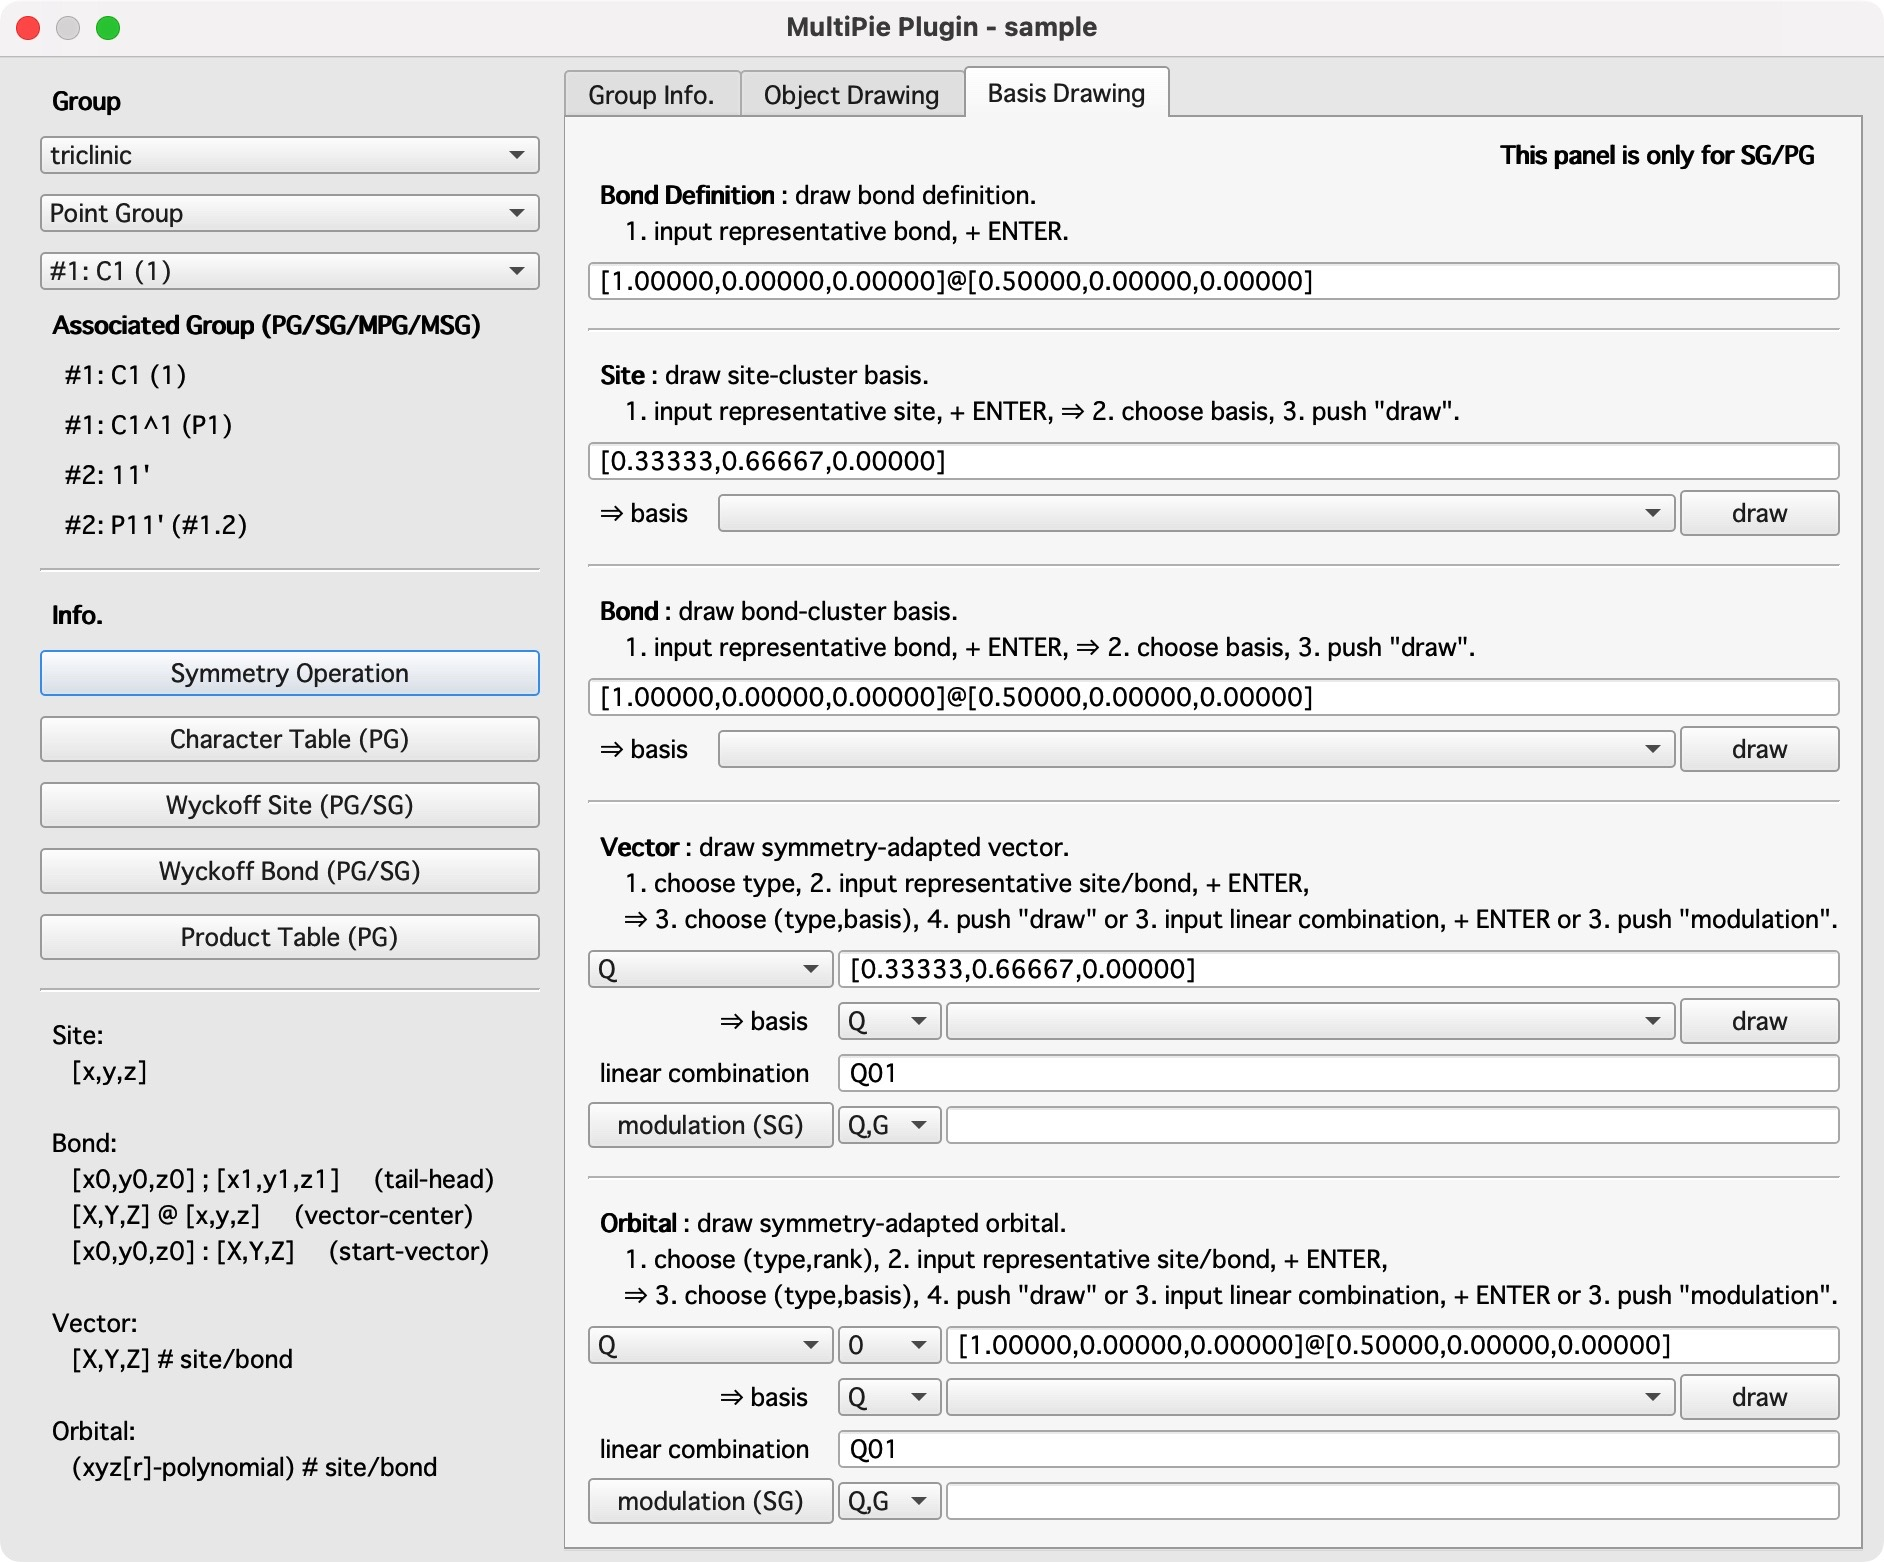
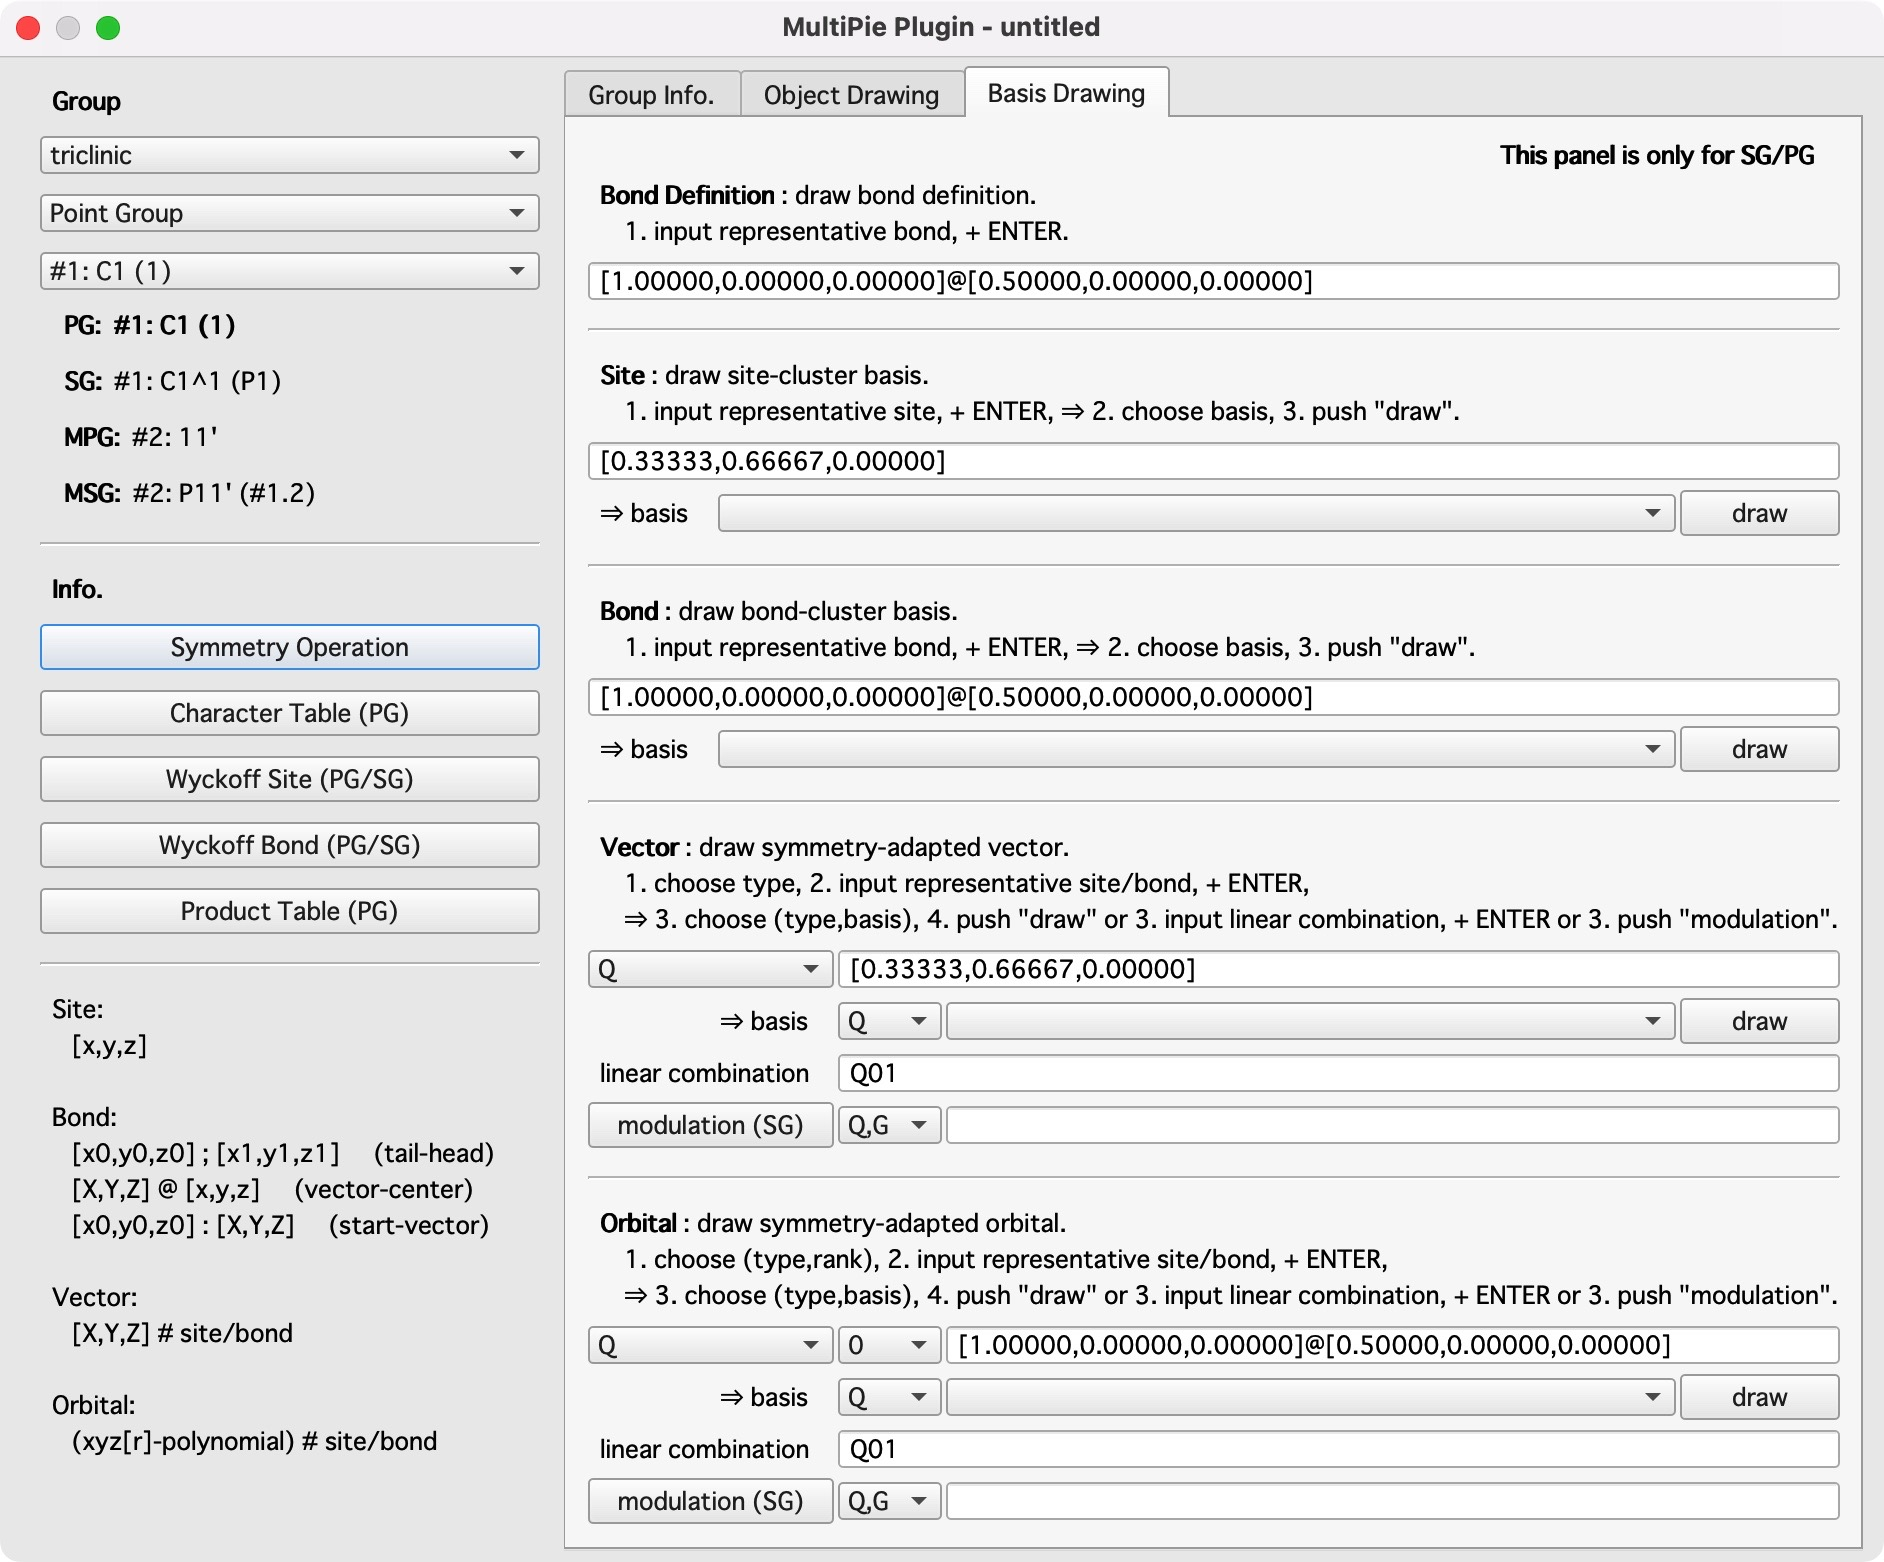
minor change

Changed region(s): [[0.0308, 0.1844, 0.2771, 0.9526], [0.4002, 0.0, 0.5849, 0.0307]]

diff --git a/docs/_static/custom.css b/docs/_static/custom.css
@@ -1,8 +1,41 @@
-.py.class,
-.py.function {
-    border-top: 3px solid #ff6600;
-    padding-top: 15px;
-    margin-top: 20px;
-    background-color: #fffef2;
-    padding: 10px;
+dl.py.class,
+dl.py.function,
+dl.py.method,
+dl.py.property,
+dl.py.attribute,
+dl.py.signal {
+    background-color: #eef5ff;
+    padding: 1rem;
+    margin-top: 2rem;
+
+    border-top: 2px solid #0066ff;
+}
+
+dl.py.class  > dt.sig,
+dl.py.function  > dt.sig,
+dl.py.function > dt.sig,
+dl.py.property > dt.sig,
+dl.py.attribute > dt.sig,
+dl.py.signal > dt.sig {
+    background-color: #dce9ff;
+    padding: 0.5rem 0.75rem;
+    margin: -1rem -1rem 1rem -1rem;
+    font-weight: 600;
+}
+
+dl.py.class dl.field-list > dt,
+dl.py.function dl.field-list > dt,
+dl.py.fuction dl.field-list > dt,
+dl.py.property dl.field-list > dt,
+dl.py.attribute dl.field-list > dt,
+dl.py.signal dl.field-list > dt {
+    font-weight: 600;
+    margin-top: 0.5rem;
+    background-color: #dce9ff;
+}
+
+.admonition,
+.admonition > .admonition-body {
+    border: none !important;
+    background-color: #f5f5f5 !important;
 }

diff --git a/qtdraw/multipie/sub_group.py b/qtdraw/multipie/sub_group.py
@@ -35,7 +35,6 @@ class SubGroup(QWidget):
         self.combo_group_type = Combo(parent, self._type_list.keys())
         self.combo_crystal_type = Combo(parent, parent._crystal_list.keys())
         self.combo_group = Combo(parent, [])
-        label_assoc_group = Label(parent, text="Associated Group (PG/SG/MPG/MSG)", bold=True)
         self.label_pg_name = Label(parent, text="")
         self.label_sg_name = Label(parent, text="")
         self.label_mpg_name = Label(parent, text="")
@@ -58,7 +57,6 @@ class SubGroup(QWidget):
         layout.addWidget(self.combo_crystal_type)
         layout.addWidget(self.combo_group_type)
         layout.addWidget(self.combo_group)
-        layout.addWidget(label_assoc_group)
         layout.addWidget(self.label_pg_name)
         layout.addWidget(self.label_sg_name)
         layout.addWidget(self.label_mpg_name)
@@ -128,11 +126,19 @@ class SubGroup(QWidget):
 
     # ==================================================
     def set_group_name(self):
+        d = {"PG": 0, "SG": 1, "MPG": 2, "MSG": 3}
         name = self.parent._get_group_name()
-        self.label_pg_name.setText("  " + name["PG"])
-        self.label_sg_name.setText("  " + name["SG"])
-        self.label_mpg_name.setText("  " + name["MPG"])
-        self.label_msg_name.setText("  " + name["MSG"])
+        name = [
+            "&nbsp;<b>PG:</b>&nbsp;" + name["PG"],
+            "&nbsp;<b>SG:</b>&nbsp;" + name["SG"],
+            "&nbsp;<b>MPG:</b>&nbsp;" + name["MPG"],
+            "&nbsp;<b>MSG:</b>&nbsp;" + name["MSG"],
+        ]
+        name[d[self.parent._type]] = name[d[self.parent._type]].replace(r"</b>", "") + "</b>"
+        self.label_pg_name.setText(name[0])
+        self.label_sg_name.setText(name[1])
+        self.label_mpg_name.setText(name[2])
+        self.label_msg_name.setText(name[3])
 
     # ==================================================
     def show_symmetry_operation(self):

diff --git a/qtdraw/core/qtdraw_app.py b/qtdraw/core/qtdraw_app.py
@@ -5,7 +5,6 @@ This module provides application of QtDraw.
 """
 
 import os
-import copy
 import warnings
 from pathlib import Path
 import logging
@@ -2806,7 +2805,7 @@ class QtDraw(Window):
             type (str, optional): type of vector, Q/G/T/M.
 
         Returns:
-            - (dict) -- list of vector SAMB, {samb_type: [str]}.
+            - (dict) -- list of vector SAMB, Dict[samb_type, [str] ].
         """
         if self._check_multipie():
             return
@@ -2859,7 +2858,7 @@ class QtDraw(Window):
             rank (int or str, optional): rank.
 
         Returns:
-            - (list) -- list of orbital SAMB, [str].
+            - (dict) -- list of orbital SAMB, Dict[samb_type, [str] ].
         """
         if self._check_multipie():
             return

diff --git a/qtdraw/core/pyvista_widget.py b/qtdraw/core/pyvista_widget.py
@@ -572,11 +572,10 @@ class PyVistaWidget(QtInteractor):
 
         if shape is not None:
             row_data["shape"] = shape
-        if surface is not None:
-            if surface == "":
-                row_data["surface"] = row_data["shape"]
-            else:
-                row_data["surface"] = surface
+        if surface is None or surface == "":
+            row_data["surface"] = row_data["shape"]
+        else:
+            row_data["surface"] = surface
         if size is not None:
             row_data["size"] = convert_to_str(size)
         if range is not None:

diff --git a/qtdraw/multipie/tab_group.py b/qtdraw/multipie/tab_group.py
@@ -174,7 +174,7 @@ class TabGroup(QWidget):
         self.combo_response_type = Combo(parent, ["Q", "G", "T", "M"])
         label_response_type = Label(parent, text="type")
         label_response_rank = Label(parent, text="rank")
-        self.combo_response_rank = Combo(parent, map(str, range(1, 5)))
+        self.combo_response_rank = Combo(parent, map(str, range(5)))
 
         panel13 = QWidget(parent)
         layout13 = Layout(panel13)
